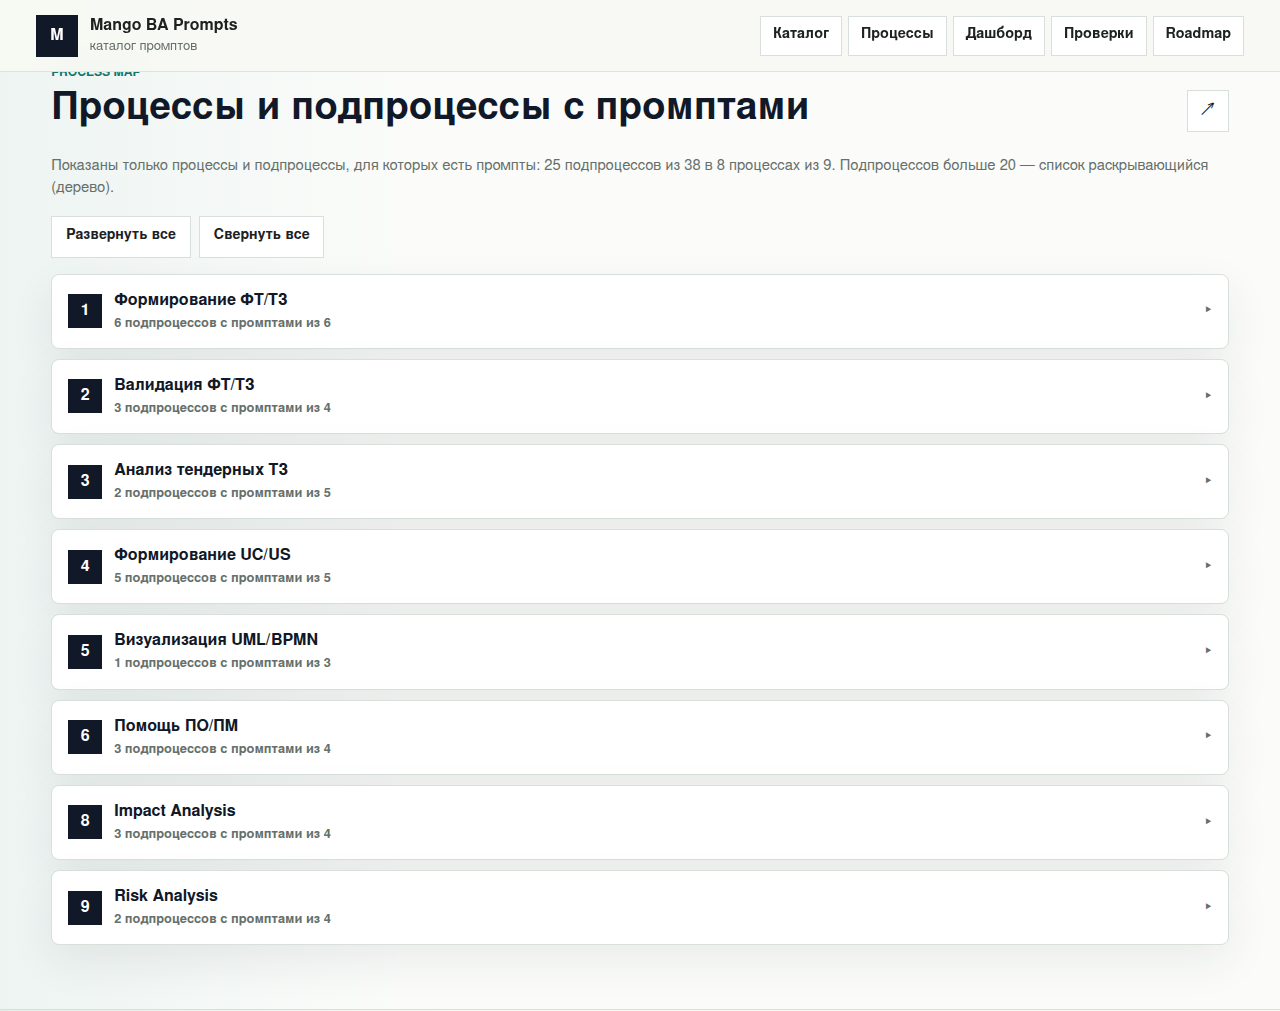
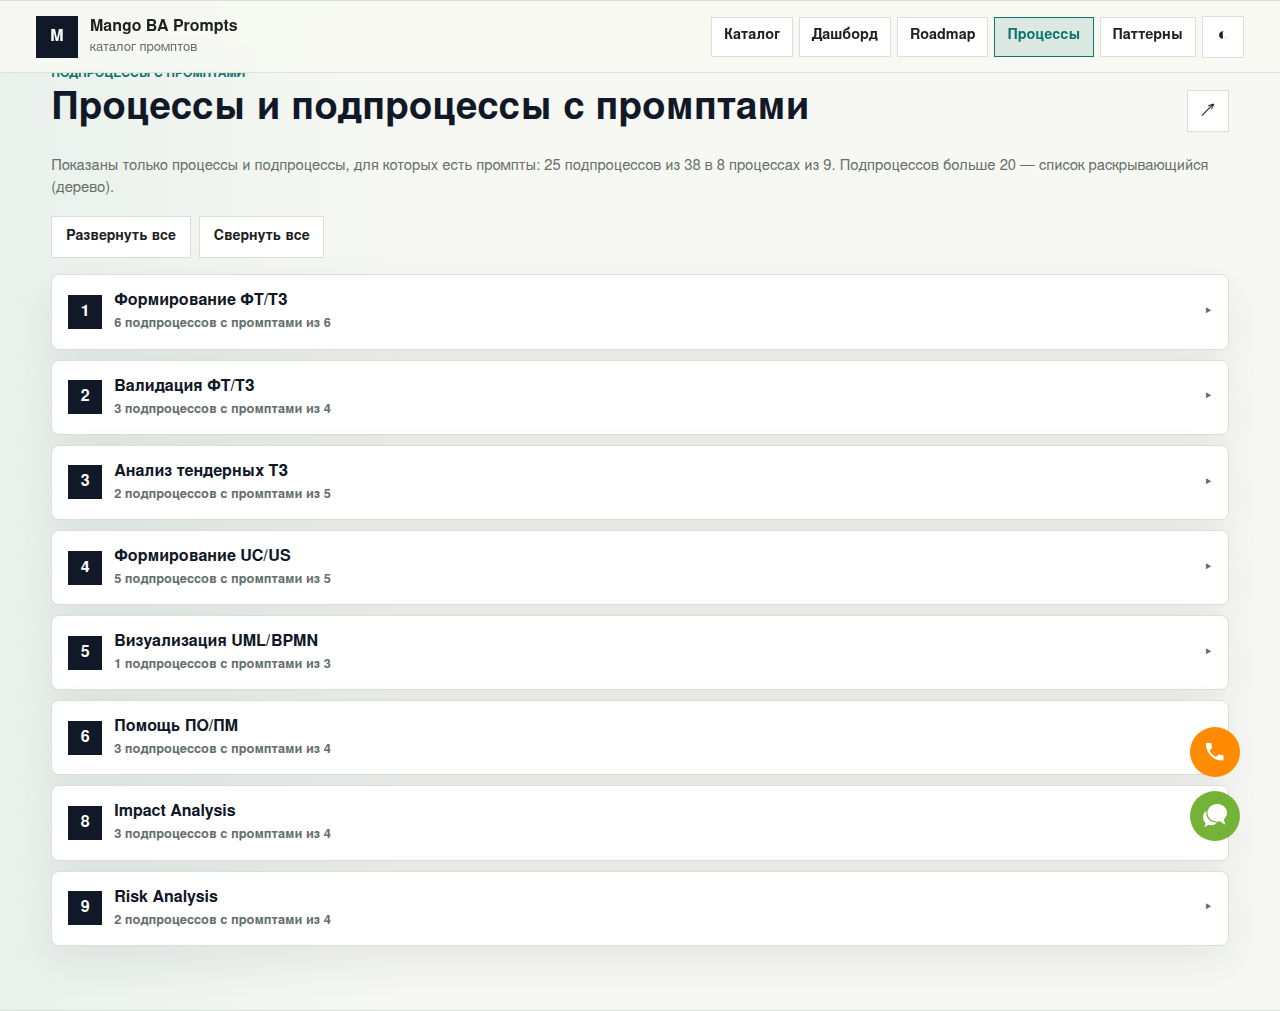
docs(ФТ-8): refresh screenshots for SPA-integrated process tree
Перехвачены свежие скриншоты дерева ФТ-8, встроенного в страницу «Процессы»
многостраничного SPA из issue #99:
- issue-97-process-tree-collapsed.png — свёрнутое дерево (useTree, 8/9 процессов);
- issue-97-process-tree-expanded.png — развёрнутые подпроцессы со ссылками;
- issue-97-spa-processes-page.png — вся страница «Процессы»: карточки issue #99
  сверху и полоса ФТ-8 снизу (доказательство интеграции).

ADR-010 дополнен подразделом «Размещение на многостраничном SPA».

diff --git a/docs/adr/010-pages-ux.md b/docs/adr/010-pages-ux.md
@@ -194,6 +194,17 @@ flowchart TD
 
 ![Развёрнутый процесс с подпроцессами и ссылками на промпты](../screenshots/issue-97-process-tree-expanded.png)
 
+### Размещение на многостраничном SPA (интеграция с issue #99)
+
+После issue #99 GitHub Pages — многостраничный SPA (hash-роутер
+`#catalog/#dashboard/#roadmap/#processes/#patterns`). Дерево ФТ-8 встроено
+отдельной полосой (`#process-tree-panel`, `data-page="processes"`) на странице
+«Процессы» — под карточками процессов issue #99, без дублирования пункта
+навигации. Скриншот всей страницы «Процессы» (карточки issue #99 сверху, полоса
+ФТ-8 в свёрнутом виде снизу):
+
+![Страница «Процессы» SPA: карточки issue #99 и полоса ФТ-8](../screenshots/issue-97-spa-processes-page.png)
+
 ### Как жёсткое требование видно на данных
 
 - **Процесс #7 «Статистика» (0/3)** — все 3 подпроцесса без активного промпта
